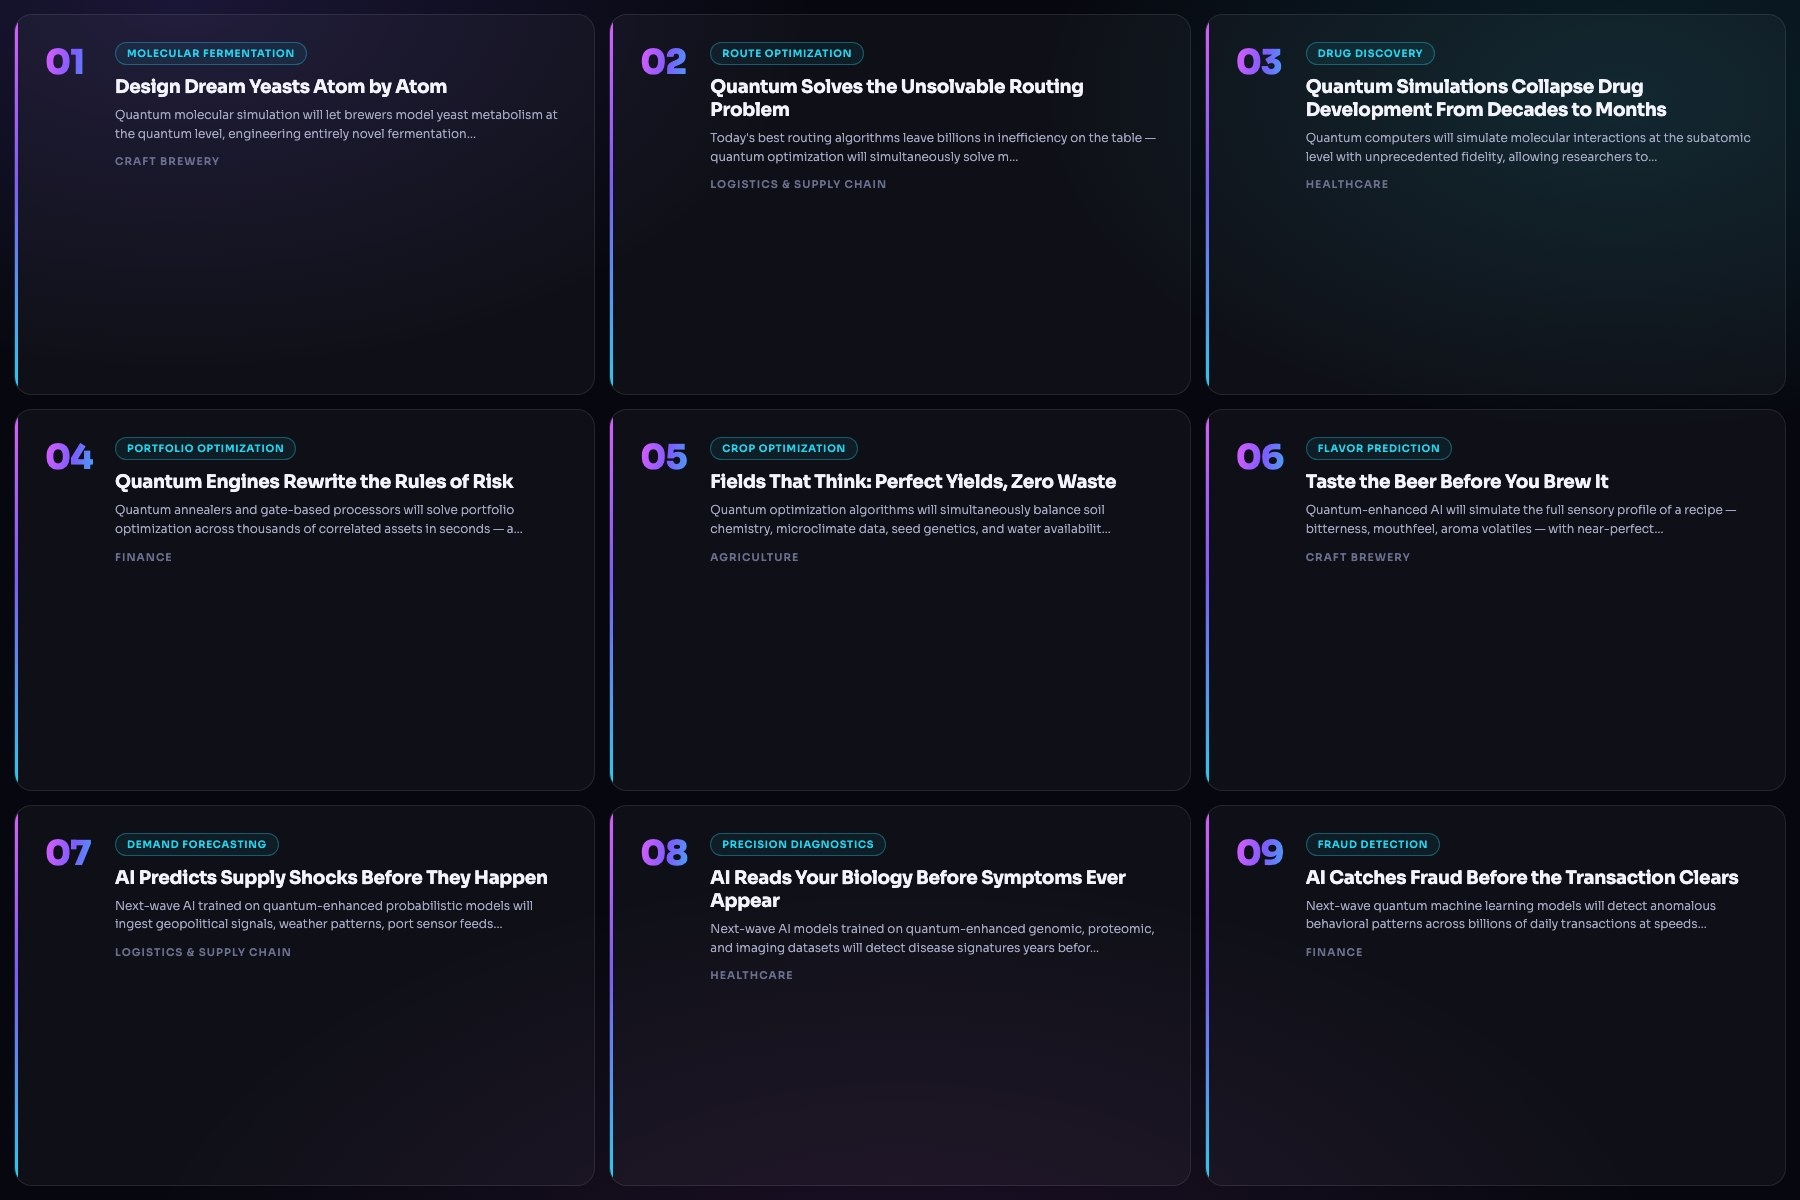
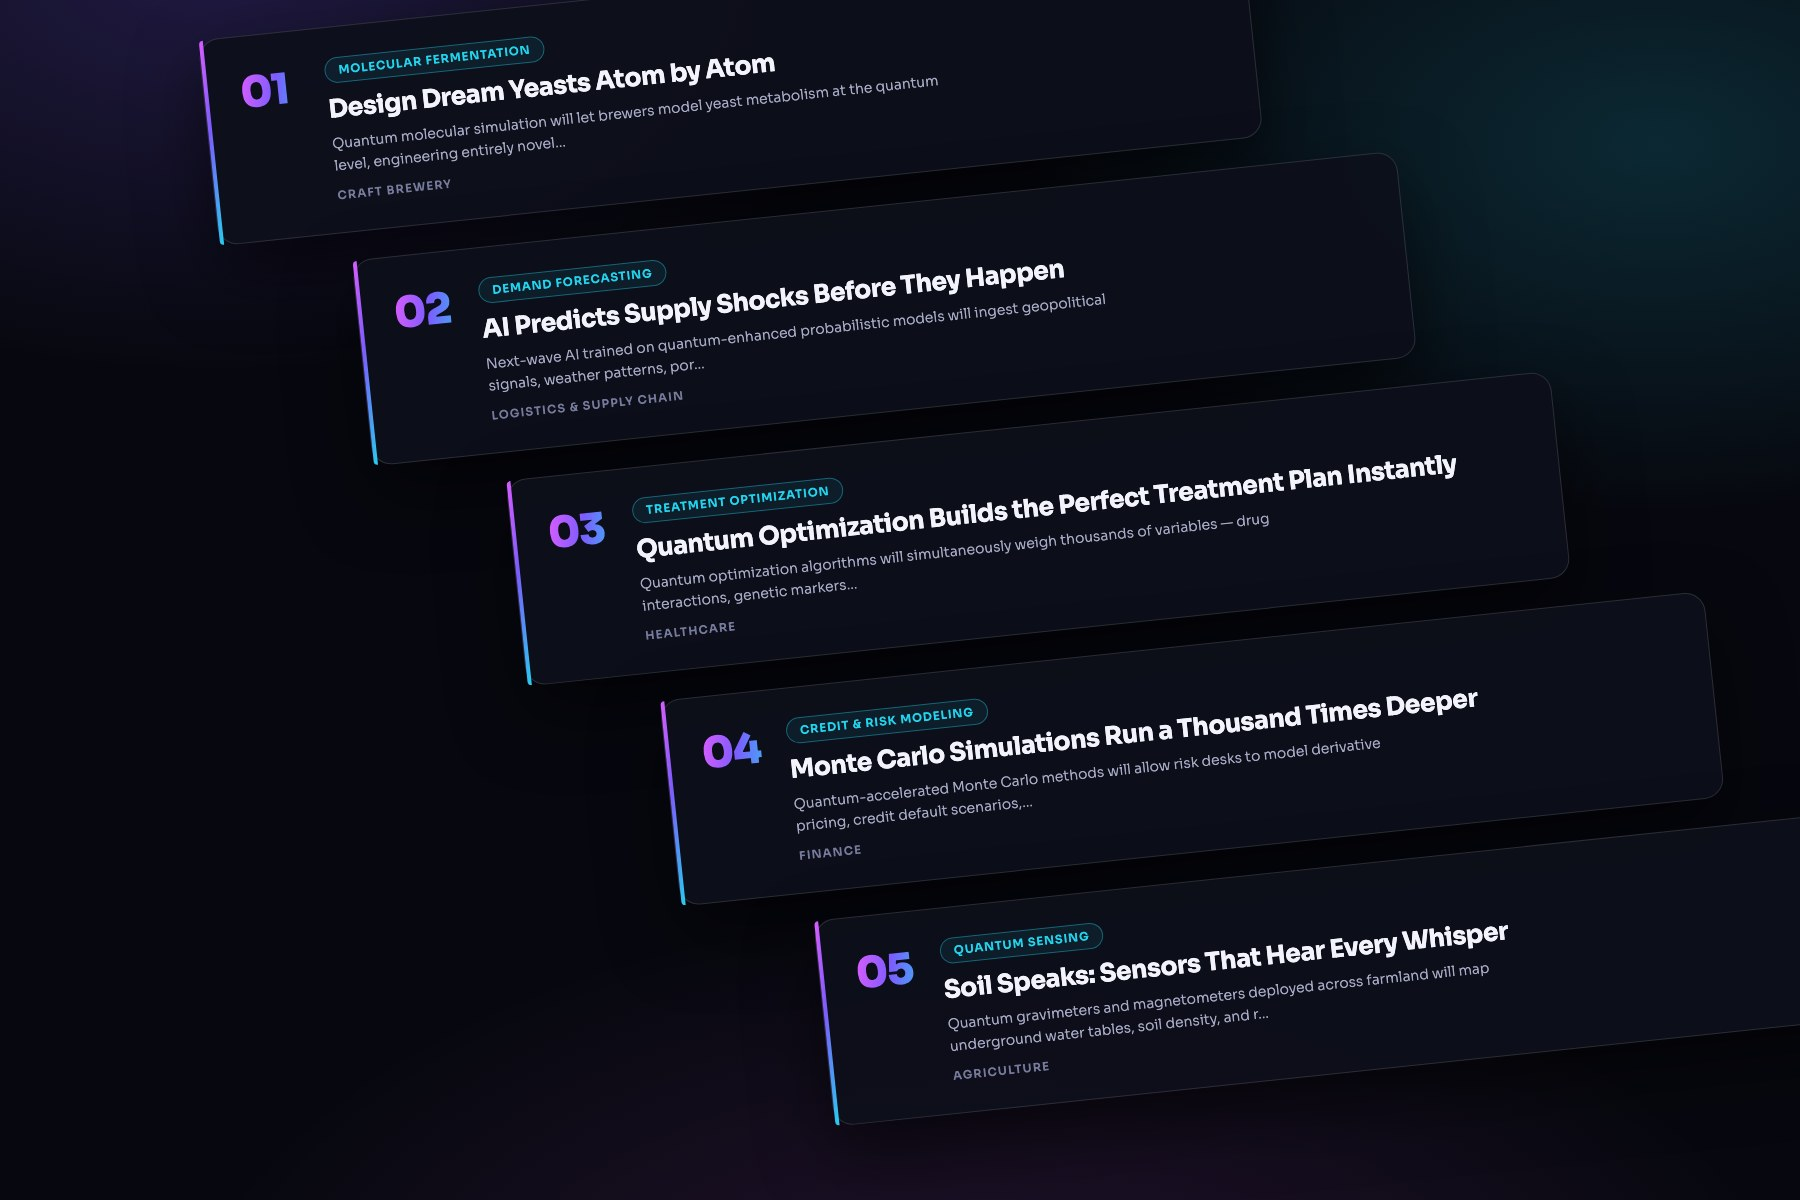
About hero visibility up; curated project order; Quantum Spark angled-list thumb
- SignalField brightened: 220 points at higher alpha and size, constellation
  lines/nodes at full accent strength, up to 5 concurrent constellations on a
  faster spawn cadence — visible instead of faded.
- Project listing now follows a curated order (The Odds, Signal Reactor,
  Quantum Spark, Hyperscale, The Hollow Villages, Generatives, Swipe the
  Future, then the rest): projectsByDate replaced by projectsOrdered (array
  order is the order) on the homepage + projects page. Restored the trailing
  helper exports my reorder initially clobbered (projectFields,
  formatProjectDate, contactProjects) — typecheck green.
- Quantum Spark thumbnail: replaced the 9-tile grid with an angled cascade
  of 5 numbered spark cards (one per industry: brewery, logistics,
  healthcare, finance, agriculture), tilted stack over the cosmic glow.

Changed region(s): [[0.0, 0.0308, 0.9644, 0.9558], [0.6533, 0.0308, 0.9644, 0.3083]]

diff --git a/src/data/projects.ts b/src/data/projects.ts
@@ -24,16 +24,16 @@ export interface Project {
 
 export const projects: Project[] = [
   {
-    id: "quantum-spark",
-    title: "Quantum Spark",
+    id: "odds-of-surviving-ai",
+    title: "The Odds",
     tagline:
-      "Signal Reactor's energized companion: type your industry and get five bold, grounded glimpses of how quantum computing and next-wave AI will transform it — the kind of insight that makes a room lean forward. Grounded hype with an honest label: provocations to spark conversation, not forecasts.",
+      "An interactive that plays three public p(doom) estimates — Amodei’s die, Musk’s wheel, Tegmark’s deck — as games of chance, then asks what your survival odds really are.",
     year: "2026",
-    date: "2026-07-03",
+    date: "2026-02-14",
     field: "AI & risk",
     status: "live",
-    path: "/quantum-spark",
-    image: "/projects/quantum-spark.jpg",
+    path: "/theodds", // self-contained bundle served within this site (physically at /odds-of-surviving-ai/)
+    image: "/projects/odds-of-surviving-ai.jpg",
   },
   {
     id: "signal-reactor",
@@ -48,16 +48,16 @@ export const projects: Project[] = [
     image: "/projects/signal-reactor.jpg",
   },
   {
-    id: "trajectories",
-    title: "Trajectories",
+    id: "quantum-spark",
+    title: "Quantum Spark",
     tagline:
-      "A real-time sphere of luminous filaments: thousands of strands reach from a boiling core to the shell, bending through noise that grows with radius, while pulses of brightness flow outward and ripples bloom at the surface. A non-commercial reimplementation (WebGL) of Jeongho Park's “Collective Trajectories” (CC BY-NC 4.0).",
+      "Signal Reactor's energized companion: type your industry and get five bold, grounded glimpses of how quantum computing and next-wave AI will transform it — the kind of insight that makes a room lean forward. Grounded hype with an honest label: provocations to spark conversation, not forecasts.",
     year: "2026",
-    date: "2026-06-28",
-    field: "Generative visuals",
+    date: "2026-07-03",
+    field: "AI & risk",
     status: "live",
-    path: "/trajectories",
-    image: "/projects/trajectories.jpg",
+    path: "/quantum-spark",
+    image: "/projects/quantum-spark.jpg",
   },
   {
     id: "hyperscale",
@@ -70,6 +70,54 @@ export const projects: Project[] = [
     status: "live",
     path: "/hyperscale",
     image: "/projects/hyperscale.jpg",
+  },
+  {
+    id: "hollow-villages",
+    title: "The Hollow Villages",
+    tagline:
+      "An AI oracle forecasting how depopulating rural villages could be revived — people write it letters; it answers with grounded, cited plans and a picture of the place in 2050.",
+    year: "2026",
+    date: "2026-04-10",
+    field: "Rural futures",
+    status: "live",
+    path: "/hollow-villages", // the full project, served within this site
+    image: "/projects/hollow-villages.jpg",
+  },
+  {
+    id: "generatives",
+    title: "Generatives",
+    tagline:
+      "A generative-visual lab — an array of animated, embeddable treatments (flow fields, noise, interference) for the project's visual language. Each one tunable, resizable to any banner, and copy-paste embeddable.",
+    year: "2026",
+    date: "2026-06-19",
+    field: "Generative visuals",
+    status: "in-progress",
+    path: "/generatives", // self-contained Vite static bundle (dashboard + embed player)
+    image: "/projects/generatives.jpg",
+  },
+  {
+    id: "swipe-the-future",
+    title: "Swipe the Future",
+    tagline:
+      "A calibration game: pick your line of work, swipe Believe or Doubt on six source-checked claims about AI and quantum, then see how far your gut sat from where the evidence actually lands.",
+    year: "2026",
+    date: "2026-06-23",
+    field: "Calibration",
+    status: "live",
+    path: "/swipe-the-future",
+    image: "/projects/swipe-the-future.jpg",
+  },
+  {
+    id: "trajectories",
+    title: "Trajectories",
+    tagline:
+      "A real-time sphere of luminous filaments: thousands of strands reach from a boiling core to the shell, bending through noise that grows with radius, while pulses of brightness flow outward and ripples bloom at the surface. A non-commercial reimplementation (WebGL) of Jeongho Park's “Collective Trajectories” (CC BY-NC 4.0).",
+    year: "2026",
+    date: "2026-06-28",
+    field: "Generative visuals",
+    status: "live",
+    path: "/trajectories",
+    image: "/projects/trajectories.jpg",
   },
   {
     id: "quantum-dominance",
@@ -96,30 +144,6 @@ export const projects: Project[] = [
     image: "/projects/woodchipper.jpg",
   },
   {
-    id: "swipe-the-future",
-    title: "Swipe the Future",
-    tagline:
-      "A calibration game: pick your line of work, swipe Believe or Doubt on six source-checked claims about AI and quantum, then see how far your gut sat from where the evidence actually lands.",
-    year: "2026",
-    date: "2026-06-23",
-    field: "Calibration",
-    status: "live",
-    path: "/swipe-the-future",
-    image: "/projects/swipe-the-future.jpg",
-  },
-  {
-    id: "hollow-villages",
-    title: "The Hollow Villages",
-    tagline:
-      "An AI oracle forecasting how depopulating rural villages could be revived — people write it letters; it answers with grounded, cited plans and a picture of the place in 2050.",
-    year: "2026",
-    date: "2026-04-10",
-    field: "Rural futures",
-    status: "live",
-    path: "/hollow-villages", // the full project, served within this site
-    image: "/projects/hollow-villages.jpg",
-  },
-  {
     id: "underground-intelligence",
     title: "Underground Intelligence",
     tagline:
@@ -132,18 +156,6 @@ export const projects: Project[] = [
     image: "/projects/underground-intelligence.jpg",
   },
   {
-    id: "odds-of-surviving-ai",
-    title: "The Odds",
-    tagline:
-      "An interactive that plays three public p(doom) estimates — Amodei’s die, Musk’s wheel, Tegmark’s deck — as games of chance, then asks what your survival odds really are.",
-    year: "2026",
-    date: "2026-02-14",
-    field: "AI & risk",
-    status: "live",
-    path: "/theodds", // self-contained bundle served within this site (physically at /odds-of-surviving-ai/)
-    image: "/projects/odds-of-surviving-ai.jpg",
-  },
-  {
     id: "quantum-sandbox",
     title: "Quantum Sandbox",
     tagline:
@@ -154,18 +166,6 @@ export const projects: Project[] = [
     status: "in-progress",
     path: "/quantum-sandbox", // self-contained Vite static bundle served within this site
     image: "/projects/quantum-sandbox.jpg",
-  },
-  {
-    id: "generatives",
-    title: "Generatives",
-    tagline:
-      "A generative-visual lab — an array of animated, embeddable treatments (flow fields, noise, interference) for the project's visual language. Each one tunable, resizable to any banner, and copy-paste embeddable.",
-    year: "2026",
-    date: "2026-06-19",
-    field: "Generative visuals",
-    status: "in-progress",
-    path: "/generatives", // self-contained Vite static bundle (dashboard + embed player)
-    image: "/projects/generatives.jpg",
   },
   {
     id: "literal-frequency",
@@ -193,14 +193,8 @@ export const projects: Project[] = [
   },
 ];
 
-export const statusLabel: Record<ProjectStatus, string> = {
-  live: "Live",
-  "in-progress": "In progress",
-  concept: "Concept",
-};
-
-/** Projects newest-first (by `date`). */
-export const projectsByDate: Project[] = [...projects].sort((a, b) => (a.date < b.date ? 1 : -1));
+// Display order is curated by the owner — the array order above IS the order.
+export const projectsOrdered: Project[] = [...projects];
 
 /** The distinct category tags (from `field`), for the projects-page filters. */
 export const projectFields: string[] = Array.from(new Set(projects.map((p) => p.field)));

diff --git a/src/components/about/SignalField.tsx b/src/components/about/SignalField.tsx
@@ -11,9 +11,9 @@ import { useEffect, useRef } from "react";
  * frame. Decoration only: aria-hidden, pointer-events none.
  */
 
-const N = 180;
-const LINK_RADIUS = 110;
-const MAX_CONSTELLATIONS = 3;
+const N = 220;
+const LINK_RADIUS = 130;
+const MAX_CONSTELLATIONS = 5;
 
 interface Pt {
   x: number;
@@ -79,7 +79,7 @@ export function SignalField() {
         y: Math.random() * h,
         vx: (Math.random() - 0.5) * 0.22,
         vy: (Math.random() - 0.5) * 0.22,
-        r: Math.random() < 0.85 ? 1.1 : 1.9,
+        r: Math.random() < 0.85 ? 1.5 : 2.4,
       });
     }
 
@@ -102,7 +102,7 @@ export function SignalField() {
       ctx!.clearRect(0, 0, w, h);
       // points
       for (const p of pts) {
-        ctx!.globalAlpha = 0.34;
+        ctx!.globalAlpha = 0.55;
         ctx!.fillStyle = colors.ink;
         ctx!.beginPath();
         ctx!.arc(p.x, p.y, p.r, 0, Math.PI * 2);
@@ -112,9 +112,9 @@ export function SignalField() {
       for (const c of constellations) {
         const age = now - c.born;
         const a = age < 600 ? age / 600 : age > c.ttl - 700 ? Math.max(0, (c.ttl - age) / 700) : 1;
-        ctx!.globalAlpha = a * 0.55;
+        ctx!.globalAlpha = a;
         ctx!.strokeStyle = colors.accent;
-        ctx!.lineWidth = 1;
+        ctx!.lineWidth = 1.5;
         ctx!.beginPath();
         for (let k = 0; k < c.ids.length - 1; k++) {
           const p1 = pts[c.ids[k]];
@@ -128,7 +128,7 @@ export function SignalField() {
         for (const id of c.ids) {
           const p = pts[id];
           ctx!.beginPath();
-          ctx!.arc(p.x, p.y, 2, 0, Math.PI * 2);
+          ctx!.arc(p.x, p.y, 2.6, 0, Math.PI * 2);
           ctx!.fill();
         }
       }
@@ -161,7 +161,7 @@ export function SignalField() {
       }
       if (now > nextConstellation && constellations.length < MAX_CONSTELLATIONS) {
         spawnConstellation(now);
-        nextConstellation = now + 1600 + Math.random() * 2400;
+        nextConstellation = now + 900 + Math.random() * 1500;
       }
       drawFrame(now);
       raf = requestAnimationFrame(step);

diff --git a/src/app/(atlas)/projects/page.tsx b/src/app/(atlas)/projects/page.tsx
@@ -3,13 +3,13 @@
 import { useState } from "react";
 import { Container } from "@/components/Container";
 import { ProjectCard } from "@/components/ProjectCard";
-import { projectsByDate, projectFields } from "@/data/projects";
+import { projectsOrdered, projectFields } from "@/data/projects";
 
 // Full project listing: a 3-column grid (newest first) with category-tag
 // filters. Chrome (nav + footer) comes from the (atlas) layout.
 export default function ProjectsPage() {
   const [active, setActive] = useState<string | null>(null);
-  const filtered = active ? projectsByDate.filter((p) => p.field === active) : projectsByDate;
+  const filtered = active ? projectsOrdered.filter((p) => p.field === active) : projectsOrdered;
 
   return (
     <div className="min-h-[70vh] bg-surface py-[clamp(48px,8vw,110px)]">
@@ -29,12 +29,12 @@ export default function ProjectsPage() {
 
         {/* category filters */}
         <div className="mb-[clamp(28px,4vw,48px)] flex flex-wrap gap-2.5">
-          <FilterTag label="All" count={projectsByDate.length} active={active === null} onClick={() => setActive(null)} />
+          <FilterTag label="All" count={projectsOrdered.length} active={active === null} onClick={() => setActive(null)} />
           {projectFields.map((f) => (
             <FilterTag
               key={f}
               label={f}
-              count={projectsByDate.filter((p) => p.field === f).length}
+              count={projectsOrdered.filter((p) => p.field === f).length}
               active={active === f}
               onClick={() => setActive(f)}
             />

diff --git a/src/app/(atlas)/page.tsx b/src/app/(atlas)/page.tsx
@@ -3,7 +3,7 @@ import { Container } from "@/components/Container";
 import { HeroField } from "@/components/HeroField";
 import { Reveal } from "@/components/Reveal";
 import { ProjectGrid } from "@/components/ProjectCard";
-import { projectsByDate } from "@/data/projects";
+import { projectsOrdered } from "@/data/projects";
 
 export default function Home() {
   return (
@@ -52,7 +52,7 @@ export default function Home() {
           </Reveal>
 
           <Reveal>
-            <ProjectGrid items={projectsByDate.slice(0, 6)} />
+            <ProjectGrid items={projectsOrdered.slice(0, 6)} />
             <div className="mt-[clamp(32px,5vw,56px)] flex justify-center">
               <Link
                 href="/projects"